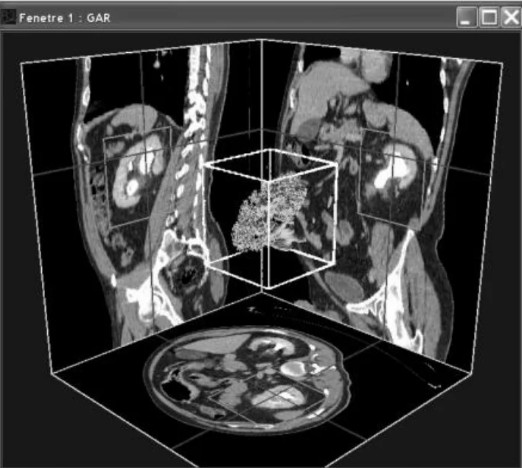
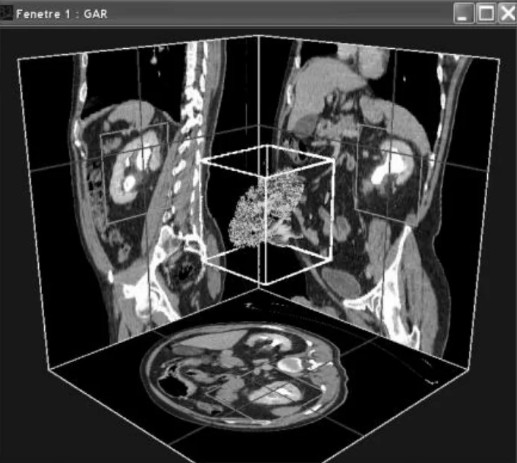
Enhance document structure by adding new tables, updating figures, and including additional LaTeX packages for improved formatting and clarity

diff --git a/documents/Progress Report/Chapters/ch_2.tex b/documents/Progress Report/Chapters/ch_2.tex
@@ -27,10 +27,37 @@ K-SVD alternates between sparse coding and dictionary update steps to minimize r
 However, it does not incorporate class labels, which limits its discriminative ability for classification tasks. \cite{ksvd}
 
 \subsection{LC-KSVD}
+LC-KSVD jointly learns a dictionary, sparse codes, a label-consistency transform, and a linear classifier so that the learned
+representations are not only good for reconstruction but also discriminative for classification through label-consistency constraints \cite{jiang2013lcksvd}.
 
-It jointly learns a dictionary, sparse codes, and a classifier so that the learned representations are not only good for reconstruction
-but also discriminative for classification through label consistency constraints.
-However, LC-KSVD still learns a single shared dictionary for all classes.
+The standard LC-KSVD objective (often referred to as LC-KSVD2 when the classifier term is included) can be written compactly as:
+\begin{equation}
+\label{eq:lcksvd_obj}
+\min_{D,A,W,X} \; \|P - D X\|_F^2 + \alpha \|Q - A X\|_F^2 + \beta \|H - W X\|_F^2 \quad \text{s.t. } \forall i, \|x_i\|_0 \le T, \; \|d_k\|_2 = 1 \; \forall k
+\end{equation}
+
+Definitions of terms:
+\begin{itemize}
+    \item $P \in \mathbb{R}^{m\times N}$: training data matrix (each column is a vectorised 3D patch).
+    \item $D \in \mathbb{R}^{m\times K}$: dictionary matrix with $K$ atoms (columns $d_k$).
+    \item $X \in \mathbb{R}^{K\times N}$: sparse coefficient matrix whose $i$-th column $x_i$ encodes the $i$-th patch.
+    \item $T$: sparsity threshold (maximum non-zeros allowed per sparse code).
+    \item $Q \in \mathbb{R}^{p\times N}$: label-consistency target matrix that embeds class information into a prototype space used to regularise codes.
+    \item $A \in \mathbb{R}^{p\times K}$: linear transform that maps sparse codes to the label-consistency space (enforces that codes for the same class are similar).
+    \item $H \in \mathbb{R}^{c\times N}$: label indicator matrix (one-hot encoding across $c$ classes) used for classifier training.
+    \item $W \in \mathbb{R}^{c\times K}$: linear classifier weights mapping sparse codes to class scores.
+    \item $\alpha,\beta$: non-negative scalars controlling the strength of the label-consistency and classification terms respectively.
+    \item $\|\cdot\|_F$: Frobenius norm; $\|x\|_0$ denotes the $\ell_0$ (sparsity) pseudo-norm.
+\end{itemize}
+
+Role of each objective term:
+\begin{itemize}
+    \item $\|P - D X\|_F^2$: reconstruction fidelity; forces the dictionary and codes to accurately represent the input patches.
+    \item $\alpha \|Q - A X\|_F^2$: label-consistency regulariser; encourages codes for the same class to be mapped close to a shared prototype.
+    \item $\beta \|H - W X\|_F^2$: supervised classification loss on sparse codes; trains a linear classifier jointly with the dictionary.
+\end{itemize}
+
+In practice LC-KSVD is solved by alternating optimisation: (1) sparse coding (e.g., OMP) to estimate $X$ with $D,A,W$ fixed, and (2) closed-form or SVD-based updates for $D,A,W$ while holding $X$ fixed. Variants differ in how $Q$ is constructed and whether the classifier term is included during early warm-start iterations.
 
 \subsection{Frozen Dictionary Learning}
 

diff --git a/documents/Progress Report/Chapters/ch_1.tex b/documents/Progress Report/Chapters/ch_1.tex
@@ -10,7 +10,7 @@ reasoning aligns with clinical diagnosis.
 The transition from 2D projectional radiography to volumetric CT represents a paradigm shift in medical image analysis.
 \begin{figure}[H]
 \centering
-\includegraphics[width=0.8\linewidth]{Chapters/chapter1PIC/2D to 3D.jpg}
+\includegraphics[width=0.8\linewidth]{\detokenize{Chapters/chapter1PIC/2D to 3D.jpg}}
 \caption{Transition from 2D projectional radiography to volumetric CT.}
 \label{fig:2dto3d}
 \end{figure}
@@ -84,6 +84,22 @@ segmentation simultaneously.
 
 Table 1 summarizes the key models in each category, their primary task orientation, and their performance on standard benchmarks.
 
+\begin{center}
+\captionof{table}{Summary of major 3D CT analysis paradigms and representative models}
+\label{tab:3dct-paradigms}
+\begin{tabularx}{\textwidth}{p{2.8cm} >{\raggedright\arraybackslash}X >{\raggedright\arraybackslash}X >{\raggedright\arraybackslash}X}
+\toprule
+\textbf{Paradigm} & \textbf{Representative Models} & \textbf{Primary Task} & \textbf{Typical Strengths / Notes} \\
+\midrule
+Classification-based & CT-CLIP; Merlin; DINOv3 & Image-level diagnosis; retrieval; linear probing & Strong image-level diagnosis; good zero-shot and transfer performance; efficient inference; limited voxel-level localization. \\
+\addlinespace
+Segmentation-based & nnU-Net; SegVol; SAM-Med3D & Voxel-level lesion segmentation & High boundary precision and dense localization; foundation models aim for universal volumetric segmentation across organs and pathologies. \\
+\addlinespace
+Unified architectures & BiomedParse; MedImageParse; Citrus-V; MTMed3D; MedVista3D & Joint diagnosis, segmentation, and reasoning & Multi-task inference with grounded localization; integrates report understanding with voxel outputs; typically more complex and computationally intensive. \\
+\midrule
+\end{tabularx}
+\end{center}
+
 \subsection{Classification Architectures}
 Classification-based models for 3D CT have shifted away from 3D Convolutional Neural Networks (CNNs) such as 3D U-Net,
 3D ResNet and DenseNet pipelines, toward Vision Transformers (ViTs) and self-supervised encoders. The benchmark for this paradigm is
@@ -150,17 +166,17 @@ Grad-CAM is one of the most widely used post-hoc explanation methods for CNN-bas
 It generates class-discriminative heatmaps by using gradients flowing into the final convolutional layer, allowing the user to identify
 image regions that influenced a prediction \cite{selvaraju2017gradcam}. 
 It's main limitation is that it produces low-resolution saliency maps and does not directly provide precise lesion boundaries or
-voxel-level localization, which is a major drawback for 3D CT interpretation \cite{selvaraju2017gradcam,draelos2020hirescam}.
+voxel-level localization, which is a major drawback for 3D CT interpretation \cite{selvaraju2017gradcam,draelos2021usehirescaminsteadgradcam}.
 
-Seg-Grad-CAM extends this idea by adapting Grad-CAM to semantic segmentation outputs \cite{vinogradova2020seggradcam}. 
+Seg-Grad-CAM extends this idea by adapting Grad-CAM to semantic segmentation outputs \cite{Suara_2024}. 
 Instead of only highlighting regions that are important for image-level classification, it produces pixel-level relevance heatmaps for
-segmentation predictions \cite{vinogradova2020seggradcam}.
+segmentation predictions \cite{Suara_2024}.
 This is particularly useful for volumetric medical imaging tasks where the target abnormality occupies a sparse region within a large 3D scan.
 
-HiRes-CAM addresses one of the key weaknesses of Grad-CAM by producing higher-resolution and more faithful localization maps \cite{draelos2020hirescam}. 
+HiRes-CAM addresses one of the key weaknesses of Grad-CAM by producing higher-resolution and more faithful localization maps \cite{draelos2021usehirescaminsteadgradcam}. 
 This is important in chest CT because many abnormalities, such as small nodules, consolidations, or subtle interstitial changes,
 may be missed by coarse heatmaps. 
-HiRes-CAM aims to preserve fine spatial detail, making it more suitable for medical imaging applications where precise localization is required \cite{draelos2020hirescam}. 
+HiRes-CAM aims to preserve fine spatial detail, making it more suitable for medical imaging applications where precise localization is required \cite{draelos2021usehirescaminsteadgradcam}. 
 However, like other gradient-based methods, it remains a post-hoc explanation technique and does not change the internal decision process of the model.
 
 \section{Report Outline}

diff --git a/documents/Progress Report/Report.tex b/documents/Progress Report/Report.tex
@@ -13,6 +13,9 @@
 \usepackage{lastpage}
 \usepackage{float}
 \usepackage{longtable}
+\usepackage{array}
+\usepackage{tabularx}
+\usepackage{booktabs}
 \usepackage{comment} 
 % \usepackage{array}
 
@@ -31,7 +34,10 @@
 \usepackage{url} 
 \def\UrlBreaks{\do/} 
 \usepackage{breakurl}
+\usepackage{lmodern}
 \usepackage{microtype}
+\usepackage{caption}
+\usepackage{amssymb}
 
 
 \begin{document}